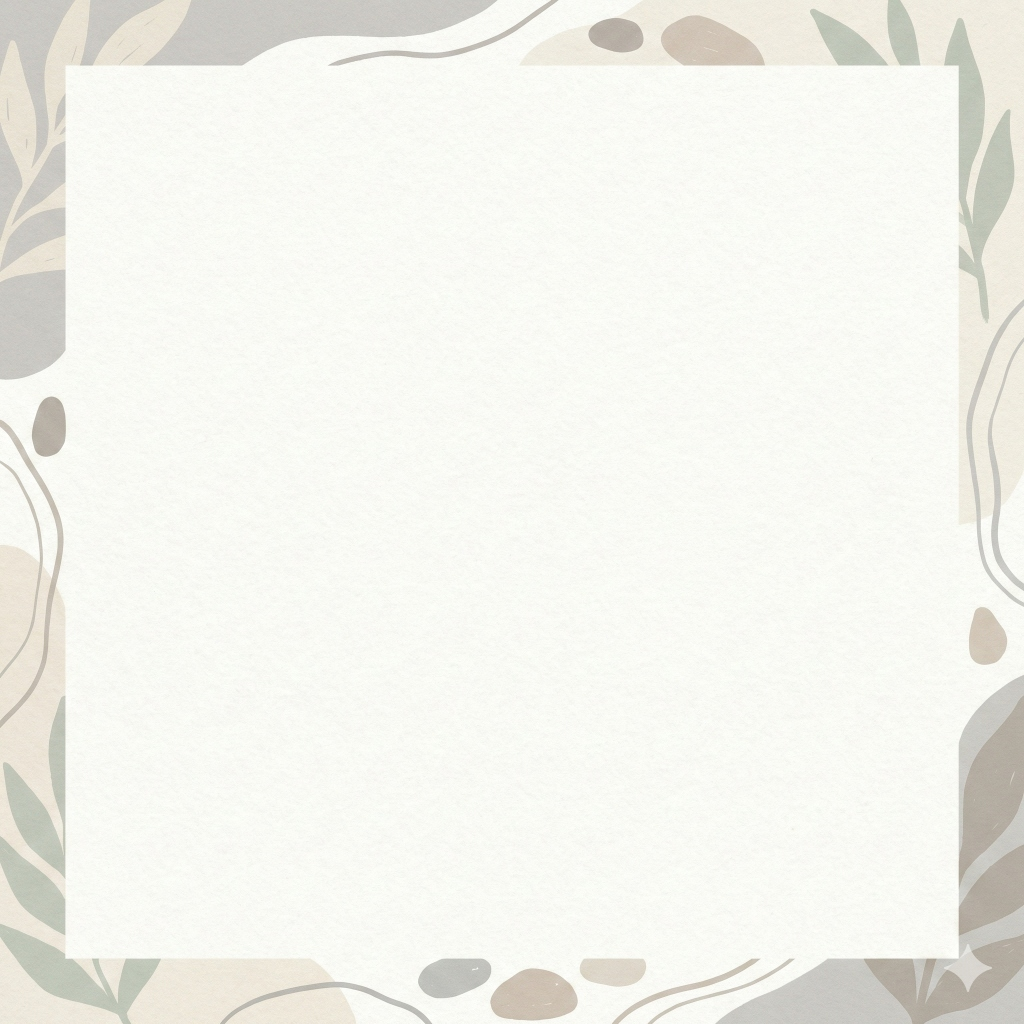
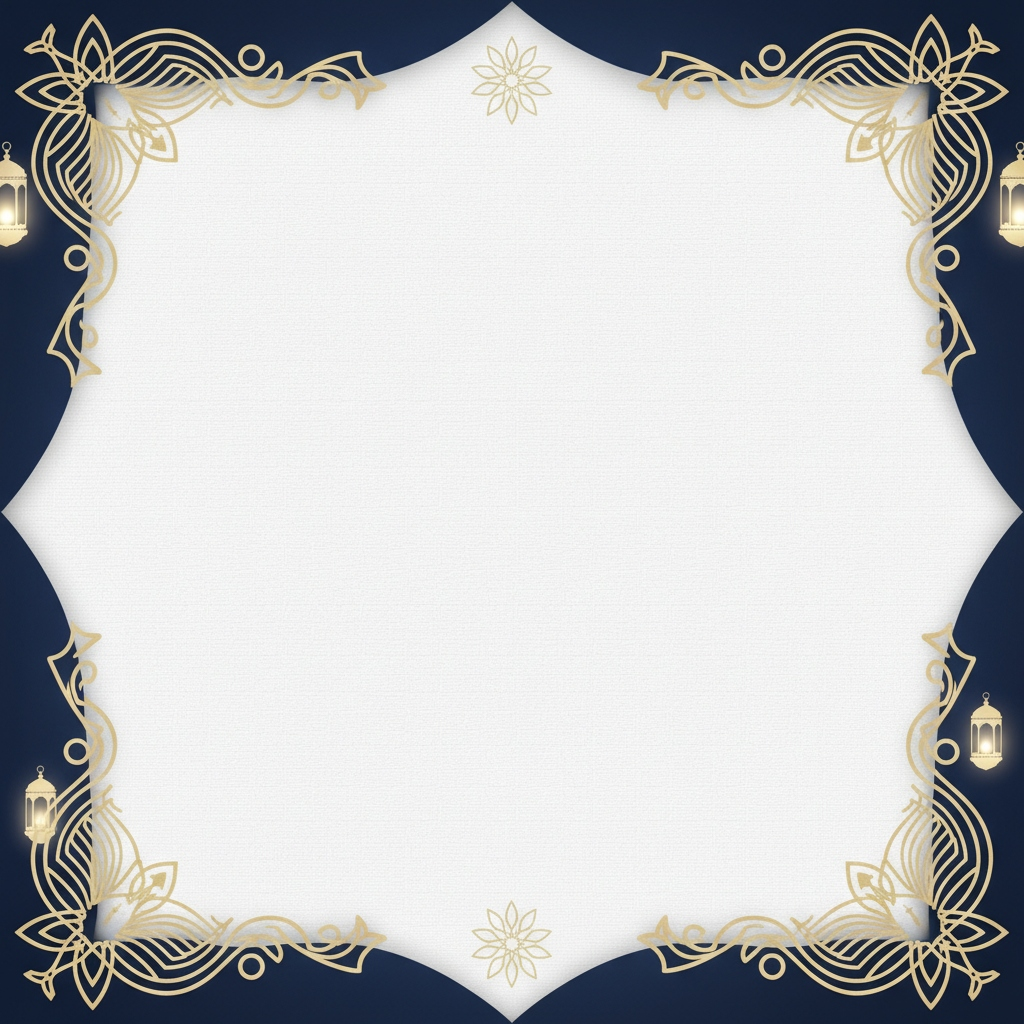
Apply Omnia feature colors & integrate new floral designs (mood1-3)

diff --git a/partner.js b/partner.js
@@ -112,9 +112,10 @@ document.getElementById('demoGenBtn')?.addEventListener('click', async () => {
         if (data.text) {
             document.getElementById('demoCardText').innerHTML = data.text.replace(/\n/g, '<br>');
             document.getElementById('demoTextEditor').value = data.text;
-            const mood = Math.floor(Math.random() * TOTAL_MOODS) + 1;
+            // Prioritize Omnia designs (1-3)
+            const mood = Math.floor(Math.random() * 3) + 1;
             document.getElementById('demoCardBg').src = `assets/templates/mood${mood}.jpg`;
-            document.getElementById('demoMeta').textContent = `✅ Generiert in <2s | Design: mood${mood} | ${occasion} / ${tone}`;
+            document.getElementById('demoMeta').textContent = `✅ Generiert in <2s | Design: Omnia ${mood} | ${occasion} / ${tone}`;
         } else {
             document.getElementById('demoCardText').textContent = data.error || 'Fehler bei der Generierung.';
         }

diff --git a/partner.css b/partner.css
@@ -730,19 +730,31 @@ p {
     margin: 0 auto 1.5rem;
 }
 
-.feature-card:nth-child(1) .feature-icon {
+.feature-card:nth-child(3n+1) .feature-icon {
     background: var(--yellow-light);
     color: var(--text-primary);
 }
 
-.feature-card:nth-child(2) .feature-icon {
+.feature-card:nth-child(3n+1):hover {
+    border-color: var(--yellow);
+}
+
+.feature-card:nth-child(3n+2) .feature-icon {
     background: var(--pink-light);
     color: var(--text-primary);
 }
 
-.feature-card:nth-child(3) .feature-icon {
+.feature-card:nth-child(3n+2):hover {
+    border-color: var(--pink);
+}
+
+.feature-card:nth-child(3n) .feature-icon {
     background: var(--blue-light);
     color: var(--text-primary);
+}
+
+.feature-card:nth-child(3n):hover {
+    border-color: var(--blue);
 }
 
 .feature-card h3 {
